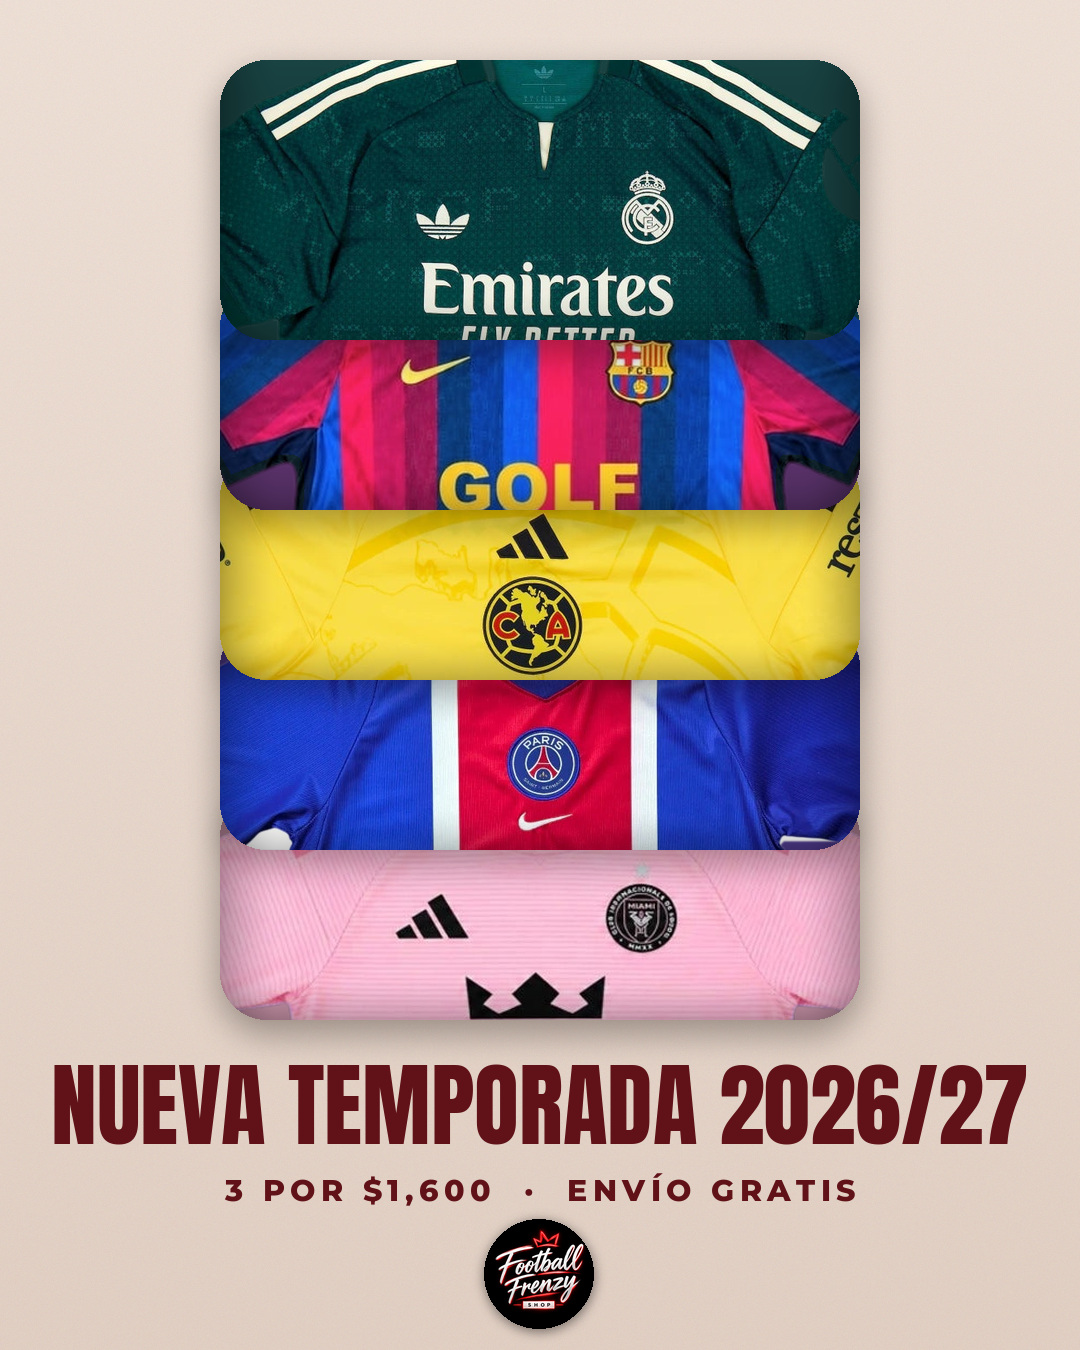
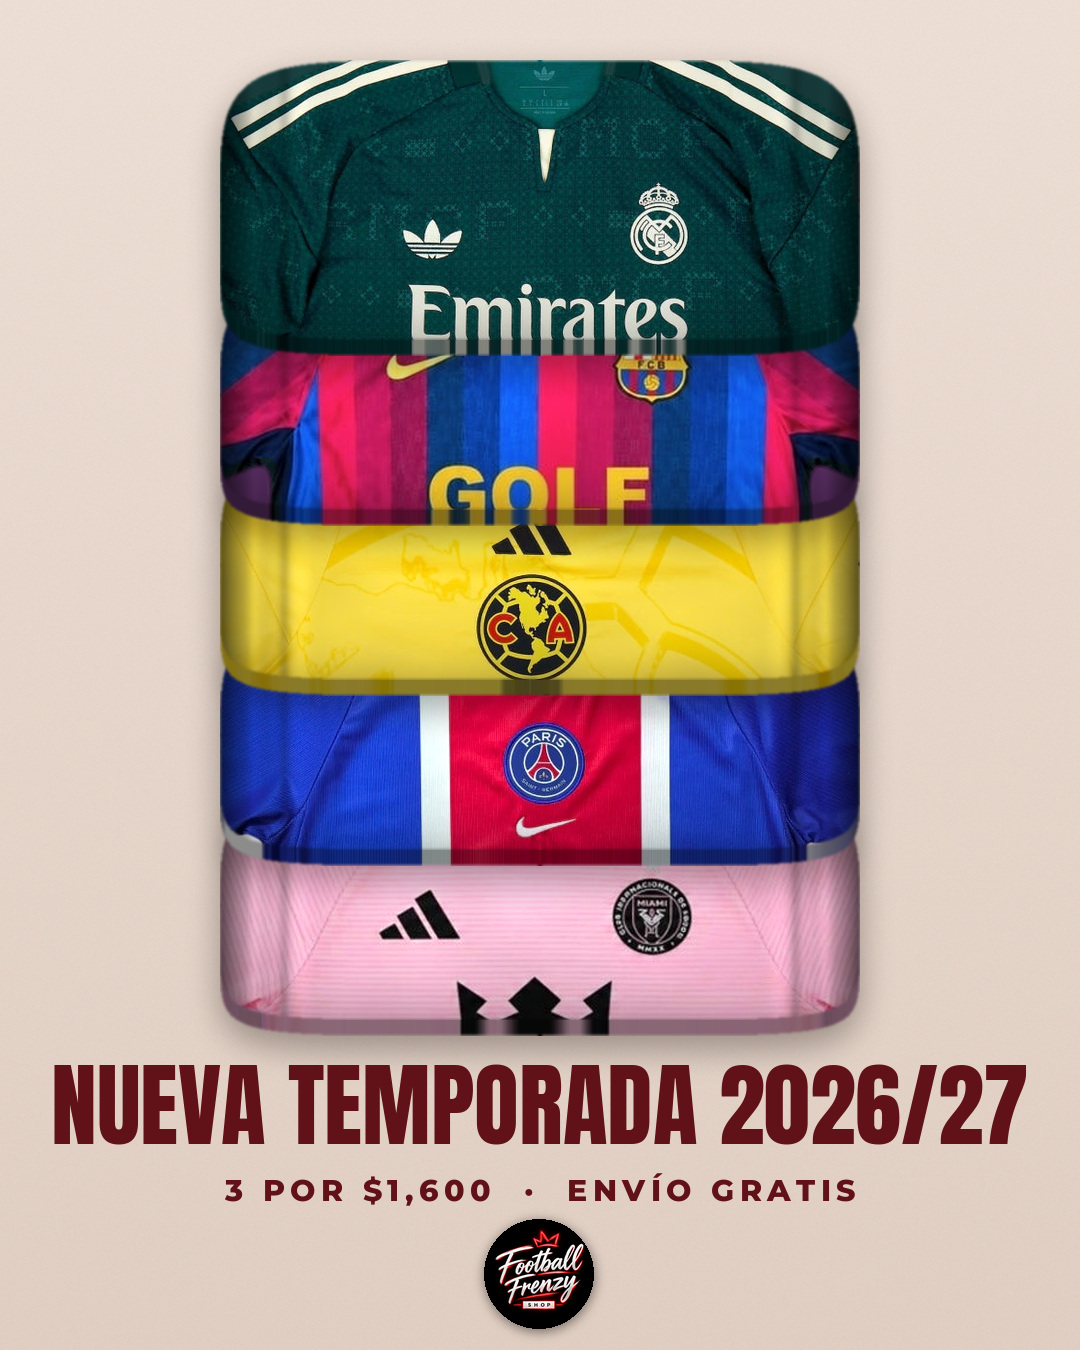
Pila 26/27: sombreado de tela doblada (volumen, dobleces de manga, orillas enrolladas, dobladillo)
Claude-Session: https://claude.ai/code/session_01Y3XEkftw7SELToetvsGNVM

Changed region(s): [[0.1833, 0.0311, 0.7944, 0.7778], [0.4583, 0.0622, 0.55, 0.1244]]

diff --git a/ads/pila_2627.py b/ads/pila_2627.py
@@ -41,7 +41,7 @@ def folded(name, cy, fh):
     im = Image.open(SRC + name).convert("RGBA")
     im = im.crop(im.getchannel("A").getbbox())
     t0, t1 = torso(im)
-    half = (t1 - t0) * 0.62             # torso plus a bit of the folded sleeves
+    half = (t1 - t0) * 0.56             # torso; sleeves are folded behind
     cx = (t0 + t1) / 2
     x0, x1 = int(max(0, cx - half)), int(min(im.width, cx + half))
     bh = (x1 - x0) * fh / FW
@@ -56,17 +56,42 @@ def folded(name, cy, fh):
     s = max(FW / band.width, fh / band.height)
     body = Image.fromarray(rgb.clip(0, 255).astype(np.uint8)).resize((round(band.width * s), round(band.height * s)), Image.LANCZOS)
     body = body.crop(((body.width - FW) // 2, 0, (body.width - FW) // 2 + FW, fh))
-    # fold shading: darker rolled edges left/right and bottom, soft highlight on top
-    arr = np.asarray(body, np.float32)
-    xs = np.linspace(-1, 1, FW)[None, :, None]
-    ys = np.linspace(0, 1, fh)[:, None, None]
-    shade = 1 - 0.28 * np.clip((np.abs(xs) - 0.82) / 0.18, 0, 1) ** 1.5 - 0.22 * np.clip((ys - 0.82) / 0.18, 0, 1) ** 1.5
-    shade = shade + 0.06 * np.clip((0.12 - ys) / 0.12, 0, 1)
-    body = Image.fromarray((arr * shade).clip(0, 255).astype(np.uint8)).convert("RGBA")
-    m = Image.new("L", (FW, fh), 0)
-    ImageDraw.Draw(m).rounded_rectangle([0, 0, FW - 1, fh - 1], radius=46, fill=255)
-    body.putalpha(m)
-    return body
+    return cloth(np.asarray(body, np.float32), mean, fh)
+
+
+def cloth(arr, base_color, fh, lip=16):
+    """Turn a flat chest band into a folded shirt: pillow volume, sleeve fold creases, wrinkles and a folded hem lip."""
+    rng = np.random.default_rng(int(arr.sum()) % 2**31)
+    x = np.linspace(-1, 1, FW)[None, :]
+    y = np.linspace(-1, 1, fh)[:, None]
+    # volume: light from top-left, edges curl away
+    shade = 1.0 - 0.30 * np.abs(x) ** 6 - 0.20 * np.clip(y, 0, 1) ** 4 + 0.07 * np.exp(-((x + 0.25) ** 2 / 0.35 + (y + 0.4) ** 2 / 0.5))
+    # sleeve folds: vertical crease (dark line with a highlight just inside) near each side
+    for side in (-1, 1):
+        cx = side * 0.80
+        shade = shade - 0.16 * np.exp(-((x - cx) / 0.018) ** 2) + 0.07 * np.exp(-((x - cx + side * 0.05) / 0.035) ** 2)
+    # soft wrinkles: low-frequency noise, stronger along the horizontal (folded) direction
+    n = rng.normal(0, 1, (6, 14))
+    n = np.asarray(Image.fromarray(((n - n.min()) / (n.max() - n.min()) * 255).astype(np.uint8)).resize((FW, fh), Image.BICUBIC), np.float32) / 255 - 0.5
+    shade = shade + 0.07 * n
+    # rolled side edges (cylinder): highlight then fall-off to the very edge
+    t = np.clip((np.abs(x) - 0.86) / 0.14, 0, 1)
+    shade = shade * (1 - 0.5 * t ** 2) + 0.10 * np.exp(-((t - 0.25) / 0.15) ** 2) * (t > 0)
+    rgb = (arr * shade[..., None]).clip(0, 255).astype(np.uint8)
+    # silhouette: superellipse (slight bulge, soft corners) instead of a hard box
+    xx, yy = np.meshgrid(np.linspace(-1, 1, FW), np.linspace(-1, 1, fh))
+    ey = np.where(yy < 0, 4.0, 8.0)                     # rounder shoulders on top, flatter fold at the bottom
+    inside = (np.abs(xx) ** 7 + np.abs(yy) ** ey) <= 1.0
+    body = Image.fromarray(rgb).convert("RGBA")
+    body.putalpha(Image.fromarray((inside * 255).astype(np.uint8)).filter(ImageFilter.GaussianBlur(1.2)))
+    # folded hem underneath: same shape, darker, peeking below = fabric thickness
+    out = Image.new("RGBA", (FW, fh + lip), (0, 0, 0, 0))
+    hem = np.repeat(arr[-8:].mean(0, keepdims=True), fh, 0) * 0.55   # the fold underneath follows the shirt's own colours
+    under = Image.fromarray(hem.clip(0, 255).astype(np.uint8)).convert("RGBA")
+    under.putalpha(body.getchannel("A"))
+    out.alpha_composite(under, (0, lip))
+    out.alpha_composite(body)
+    return out
 
 
 def background():
